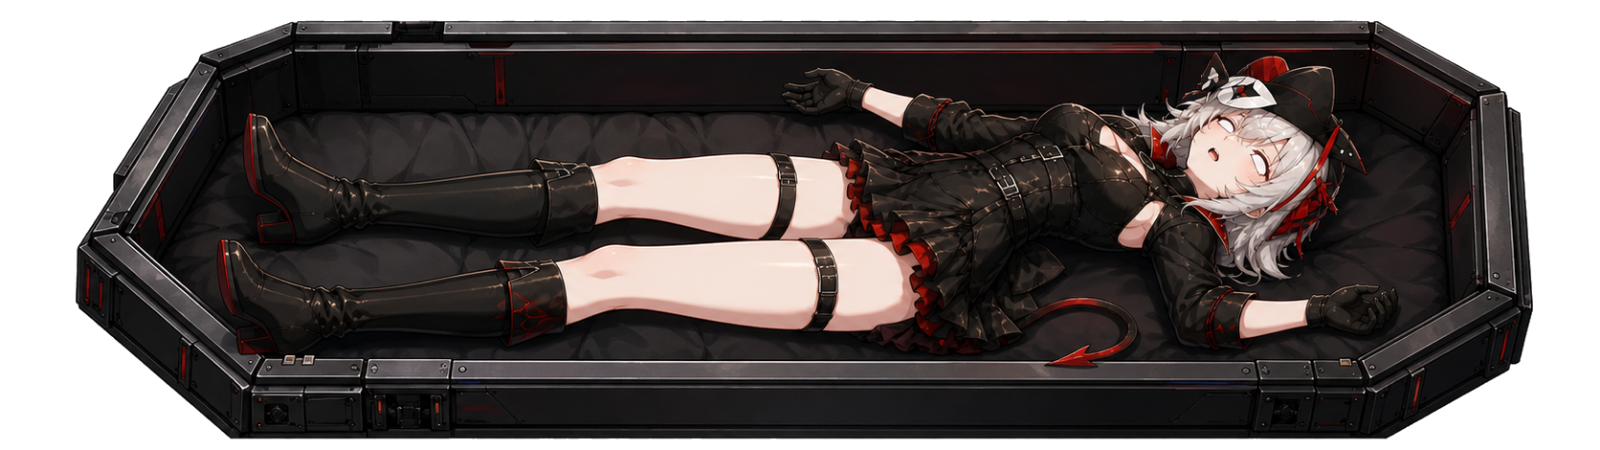
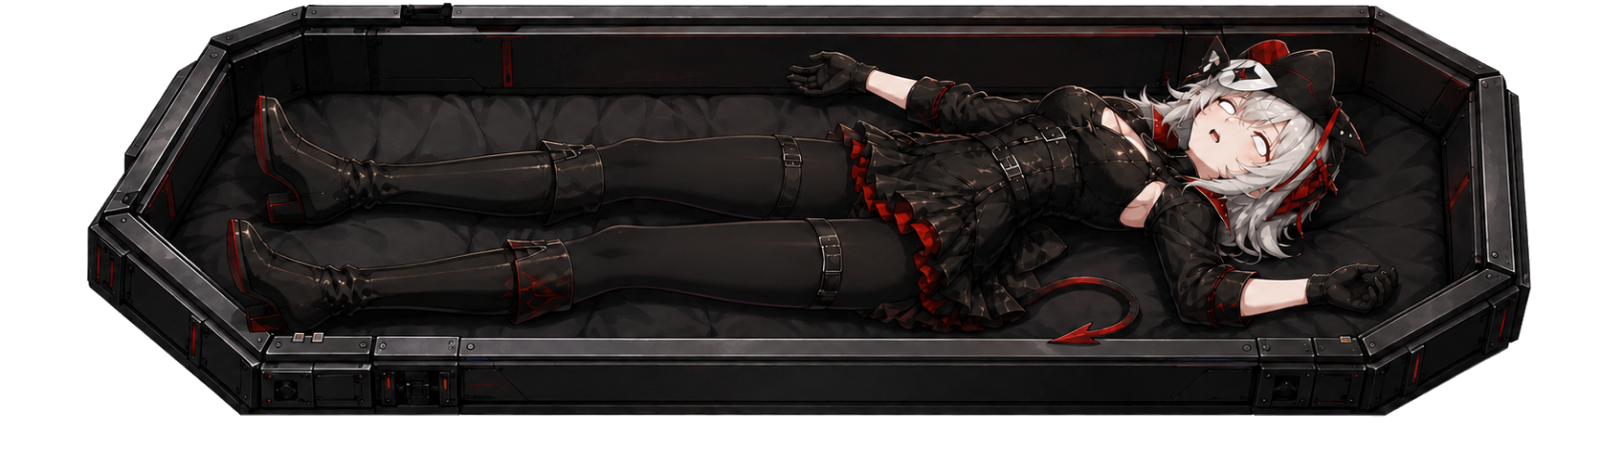
小修

diff --git a/AGENTS.md b/AGENTS.md
@@ -6,9 +6,8 @@
 
 - 产品是 Android 竖屏优先的单机 PWA，核心体验是“黑杰克 + 累积式俄罗斯轮盘 + 技能 + 角色叙事”。桌面端应可用，但不是视觉基准。
 - 玩家扮演“策展人”，代码中的 `player` 指策展人，`opponent` / `AI` 指与会者，`staff` 指发牌员。`player-killed`、`unconscious`、`defeated`、`trophy` 等是兼容性标识，不应按字面扩写剧情。
-- 策展人受罚时枪口朝向天花板；与会者受罚时由发牌员瞄准其头部。与会者不知道策展人能够回溯失败时间线，任何角色对白不得泄露这一真相。
 - 面向玩家的 UI 文案使用中文；Hit、Stand 等牌桌术语可保留英文并附中文。信息层级、按钮尺寸、安全区和反馈节奏首先服务于 390×844 与 320×720 的触屏体验。
-- 视觉方向是清晰、克制的日式二次元手游：角色、牌桌、背景共享色彩与光照；人物表情在手机尺寸下可辨；不使用原作解包素材，不让生成模型绘制需要规则准确性的牌面或文字。
+- 视觉方向是清晰、克制且现代的日式二次元手游，UI采用现代矢量风格；角色、牌桌、背景共享色彩与光照；人物表情在手机尺寸下可辨。
 - 角色、对白、能力和状态优先由受 Schema 校验的数据驱动。新增内容不得在核心逻辑中加入角色 ID 或能力 ID 特判。
 - 主动或被动能力每次实际触发后，都必须在牌桌中央通知栏显示发动者、技能名与本次效果；因状态封锁而不可用的主动技能牌仍须响应点击，并短暂提示“技能被禁用”，不能只依赖灰态表达原因。
 - 不擅自改变既有游戏规则、叙事语义或已经验收的美术基线。规则细节见 [玩法设计](docs/game-design.md)，美术规格见 [新增与会者工作流](docs/adding-a-character.md)。

diff --git a/tools/art/README.md b/tools/art/README.md
@@ -6,7 +6,6 @@
 
 - 用户提供的目标角色参考负责身份、发型、服装、配色、饰品与身体标记。
 - `art/source/master-anime-style-sheet.png` 和已经验收的 W 牌桌资源负责项目画风、光照、头身比与构图基线。
-- 不把参考角色的身份特征迁移到目标角色，不直接搬运或解包原作素材。
 - 图像模型只生成插画源图，不生成扑克牌数字、花色、规则文本、水印或 UI 文案。
 
 ## 生产流程
